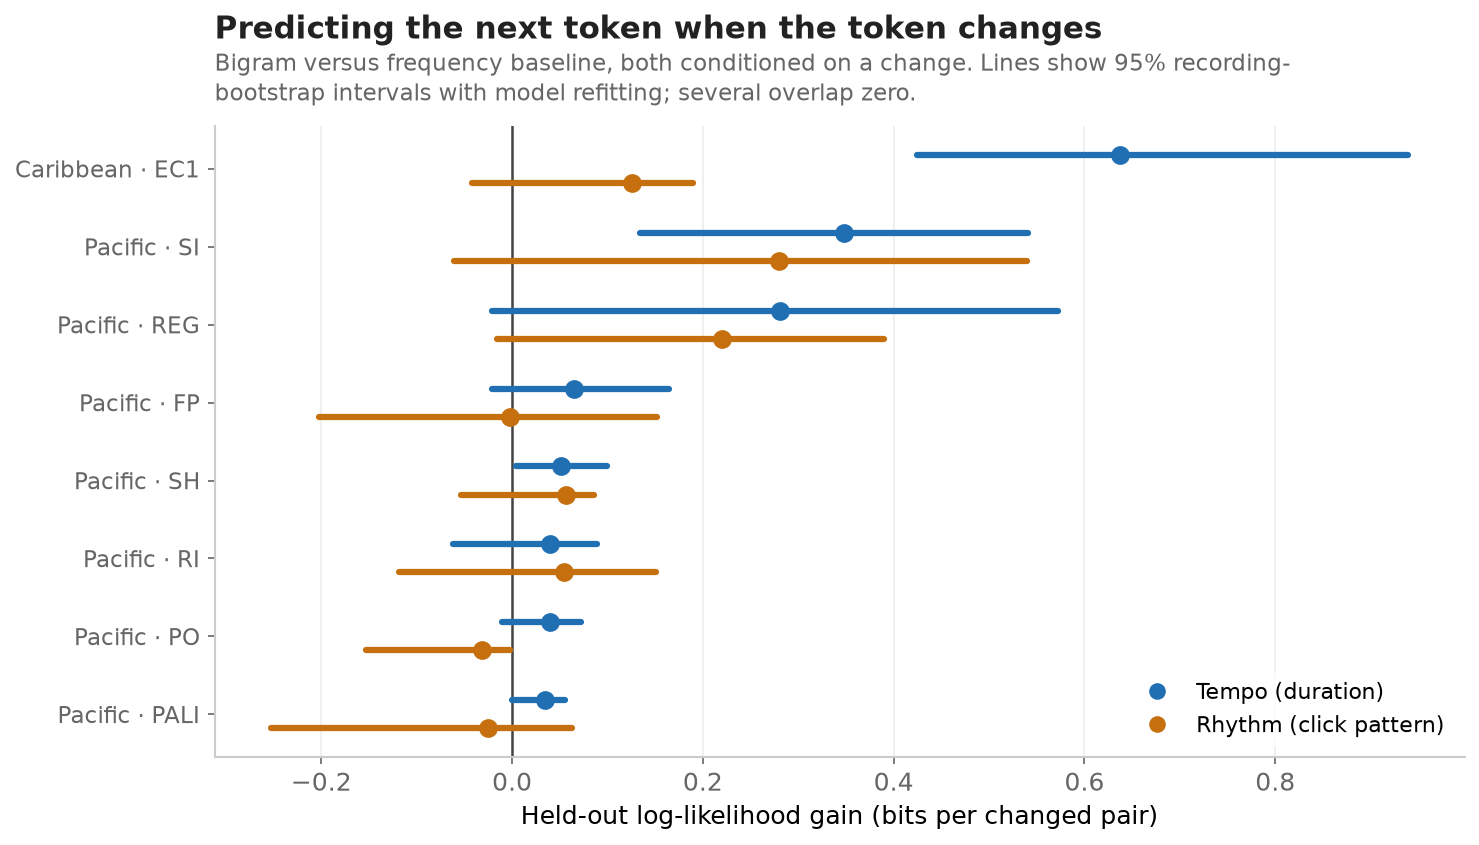
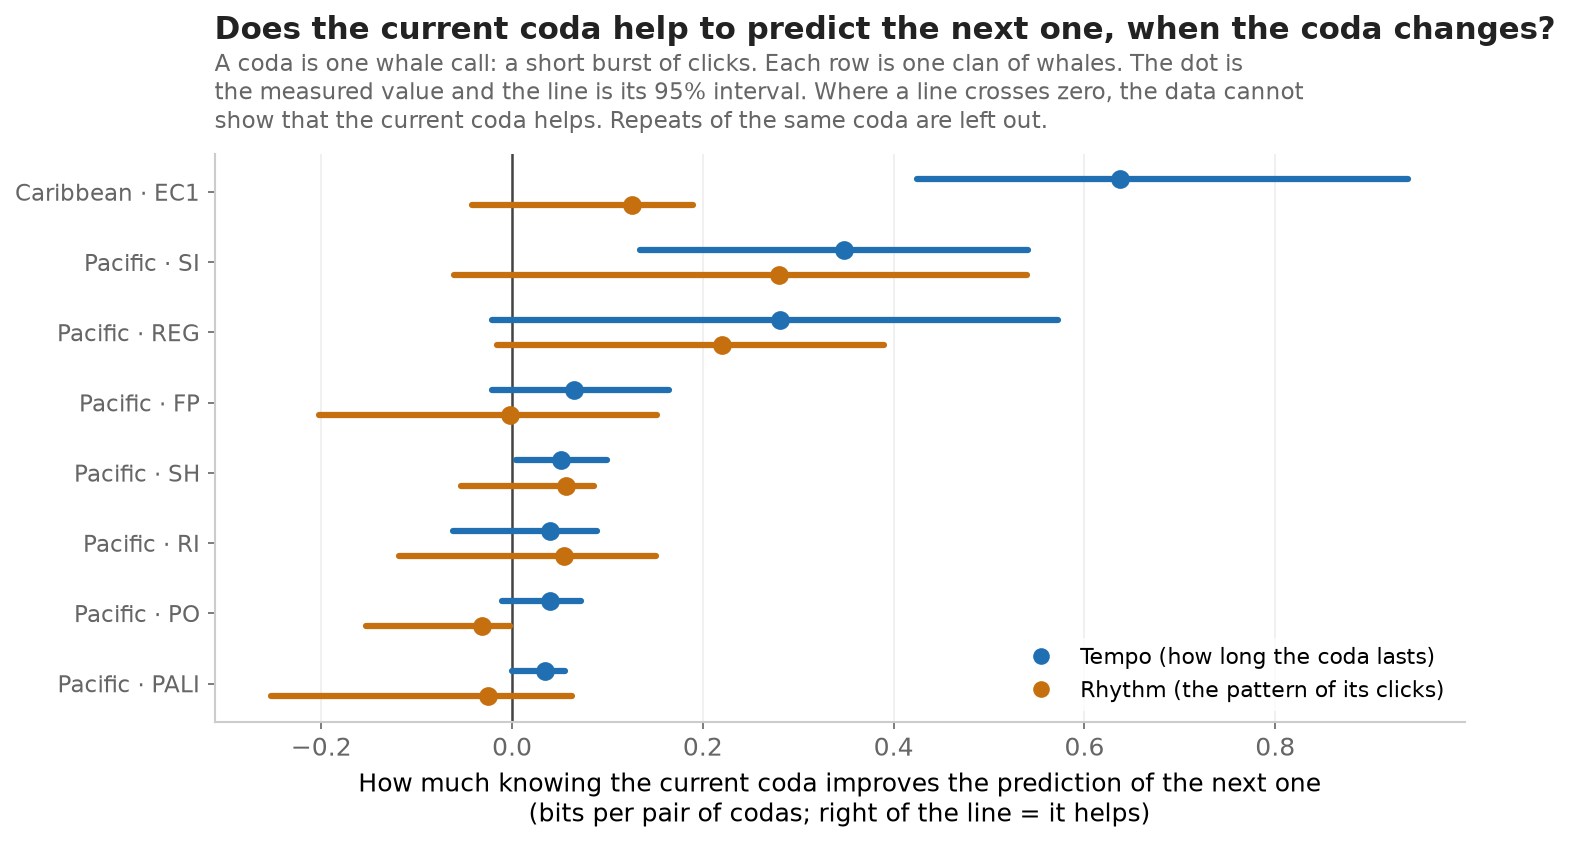
README for a first-time reader: main figure up top, what the project shows, plain labels on figure 2
Also gives the page a readable title and a tests badge, drops the second
whole-model figure and the October correction note from the README (both remain
in SUMMARY.md and PROGRESS.md).

diff --git a/src/coda_recovery/plain_figures.py b/src/coda_recovery/plain_figures.py
@@ -113,16 +113,18 @@ def fig_changes():
                     solid_capstyle="round", zorder=2)
             ax.plot(r.gain_transition, yi + dy, "o", color=col, ms=8, zorder=3)
     ax.set_yticks(y); ax.set_yticklabels([CLAN_LABEL[c] for c in clans], fontsize=11)
-    ax.set_xlabel("Held-out log-likelihood gain (bits per changed pair)")
+    ax.set_xlabel("How much knowing the current coda improves the prediction of the next one\n"
+                  "(bits per pair of codas; right of the line = it helps)")
     _dress(ax); ax.xaxis.grid(True, color="#eeeeee")
-    _titles(ax, "Predicting the next token when the token changes",
-            "Bigram versus frequency baseline, both conditioned on a change. Lines show 95% "
-            "recording-bootstrap intervals with model refitting; several overlap zero.", wrap=95)
+    _titles(ax, "Does the current coda help to predict the next one, when the coda changes?",
+            "A coda is one whale call: a short burst of clicks. Each row is one clan of whales. The dot is "
+            "the measured value and the line is its 95% interval. Where a line crosses zero, the data cannot "
+            "show that the current coda helps. Repeats of the same coda are left out.", wrap=95)
     from matplotlib.lines import Line2D
     ax.legend(handles=[Line2D([0], [0], marker="o", color="w", markerfacecolor=BLUE,
-                              markersize=9, label="Tempo (duration)"),
+                              markersize=9, label="Tempo (how long the coda lasts)"),
                        Line2D([0], [0], marker="o", color="w", markerfacecolor=ORANGE,
-                              markersize=9, label="Rhythm (click pattern)")],
+                              markersize=9, label="Rhythm (the pattern of its clicks)")],
               loc="lower right", frameon=True, facecolor="white", edgecolor="none", fontsize=10.5)
     fig.tight_layout()
     FIG.mkdir(parents=True, exist_ok=True)

diff --git a/README.md b/README.md
@@ -1,4 +1,6 @@
-# coda-recovery
+# Coda order in sperm whale clans
+
+![tests](https://github.com/aubrika/coda-recovery/actions/workflows/tests.yml/badge.svg)
 
 **Do sperm whales put their calls in a predictable order, and is that order the same in every clan?**
 
@@ -11,9 +13,10 @@ published recordings of eight clans of sperm whales to ask two questions. Does
 knowing the current coda help to predict the next one? And does what is learned from
 one clan help to predict another?
 
-It is a Python project. The code prepares the data, builds the predictions, tests
-them on recordings that were kept aside, measures how certain the results are, and
-draws the figures.
+**What this project shows:** a complete analysis in Python, from raw public data to
+tested results. One set of commands rebuilds every number and figure. There are 31
+automated tests. Each method was first tried on made-up data where the right answer
+is known, and results were corrected when those checks failed.
 
 ## Results
 
@@ -27,6 +30,12 @@ draws the figures.
 - The hope was that one number, a Procrustes distance, could measure how far two
   clans' orders have drifted apart. It cannot, with this much data: two halves of the
   same clan come out almost as far apart as two different clans.
+
+![What was measured when one clan's order is used to predict another, between the result for no order and the result for one shared order](figures/plain/10_order_shared_between_clans.png)
+
+The figure shows the second point. The words in it are explained below, and the
+figure itself is explained under
+[Do clans put their codas in the same order?](#do-clans-put-their-codas-in-the-same-order)
 
 ### Words used here
 
@@ -79,8 +88,6 @@ codas carries information that their frequency alone does not.
 
 ![Gain when the coda changes, for tempo and rhythm in each clan, with 95% intervals](figures/plain/2_current_predicts_next.png)
 
-![Each clan's own model compared with a model built from the other seven clans](figures/plain/3_shared_vs_clan_specific.png)
-
 ### Do clans put their codas in the same order?
 
 The idea behind this project is that each clan has its own order, and that these
@@ -106,9 +113,8 @@ run on two kinds of made-up data, to mark the two ends of the scale:
 - **One order shared by all clans:** eight simulated clans that all follow the same
   order, each with its real inventory and recordings of the real sizes.
 
-![What was measured when one clan's order is used to predict another, between the result for no order and the result for one shared order](figures/plain/10_order_shared_between_clans.png)
-
-Reading the figure, for pairs where the coda changes:
+The figure near the top of this page shows where the measured values fall between
+those two ends. In numbers, for pairs where the coda changes:
 
 | Which order is carried from another clan | No order at all | Measured | One shared order |
 |---|---:|---:|---:|
@@ -133,8 +139,7 @@ The numbers are bits per pair of codas; higher is better.
   and that habit carries over (right-hand panel).
 
 A negative number in the table does not mean that another clan's order "misleads".
-It is what noise in the tables costs. An earlier version of this page read it the
-wrong way; see [History and corrections](#history-and-corrections).
+It is what noise in the tables costs.
 
 **Can a distance measure the difference?** Not with these data. The Procrustes
 distance between two clans' orders is 0.83 to 1.06. But when one clan's recordings
@@ -253,7 +258,8 @@ recording folds, bootstrap refitting, and cross-clan transfer.
 
 ## History and corrections
 
-The name comes from an earlier attempt to recover coda labels by graph matching.
+The repository is called coda-recovery after an earlier attempt to recover coda
+labels by graph matching.
 [Development history](PROGRESS.md) records that change of direction.
 
 **Correction, September 2026.** An earlier version of the changes-only comparison
@@ -263,14 +269,6 @@ repeats were removed. The baseline now accounts for the exclusion, and the earli
 claims of a universal tempo rule and above-zero changes-only effects in every clan
 have been withdrawn. [Methods and results](SUMMARY.md#correction-to-the-earlier-analysis)
 explains the correction.
-
-**Correction, October 2026.** For a few hours on 12 October this page said that
-another clan's order "misleads", because it scored below zero. Zero was the wrong
-point of comparison. When the codas inside each recording are shuffled, so that
-there is no order to carry over, another clan's tables score just as far below
-zero, because of noise. Measured against that, another clan's order helps. The
-page also reported a version of the model with two extra tables that the data do
-not support. Both are corrected above.
 
 ## License and credits
 
